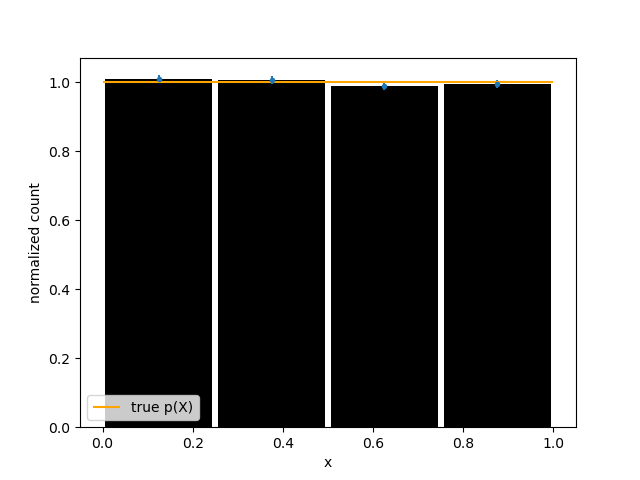
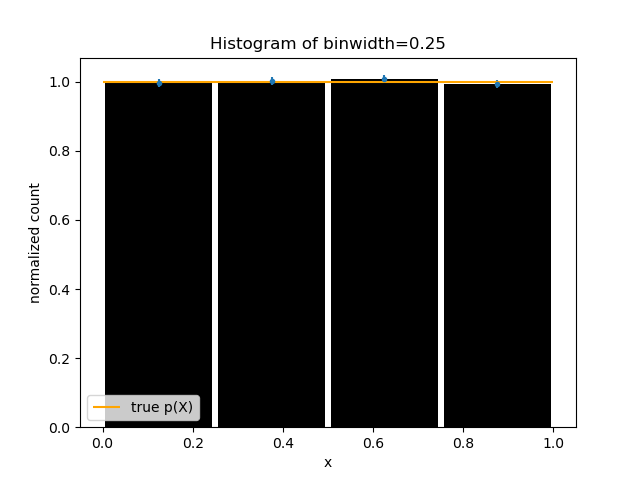
finished hw9

diff --git a/hw9/ps9_problem2.py b/hw9/ps9_problem2.py
@@ -1,0 +1,77 @@
+import numpy as np
+import matplotlib.pyplot as plt
+from histogram_class import histogram
+
+
+def random_walk(x_init=0.5, maxhop=0.5, nsteps=1000, accept_all=True):
+    ''' Does a random walk.
+
+    Parameters
+    ----------
+    x_init, initial state of walker
+    maxhop, maximum hop length
+    nsteps, number of steps to take
+    accept_all, whether or not to accept all steps
+
+    Returns
+    -------
+    xtrajectory, the tracjetory of the random walk
+    '''
+    x = x_init
+    maxhoplength = maxhop
+    xtrajectory = np.zeros(nsteps)
+
+    for step in range(nsteps):  # iterate through nsteps and allocate trajectory
+        xtrial = x + maxhoplength * (np.random.rand() - 0.5)
+        if accept_all: # accept all steps
+            x = xtrial
+            xtrajectory[step] = x
+        elif xtrial >= 0 and xtrial <= 1: # accept only if the trial step is within criterion.
+            x = xtrial 
+            xtrajectory[step] = x
+    return xtrajectory
+
+if __name__ == '__main__':
+    #i)
+    print('''i) See random_walk at line 6 for implementation''')
+
+    #ii)
+    steps = np.arange(0, 1000)
+    xtrajectory = random_walk(accept_all=False)
+    fig = plt.figure()
+    ax = fig.add_subplot(111, xlabel='step', ylabel='x trajectory', title='Random Monte Carlo Walk')
+    ax.plot(steps, xtrajectory)
+    plt.savefig('ps9_problem2ii.png')
+    plt.show()
+    plt.cla()
+
+    #ii)
+    long_trajectory = random_walk(nsteps=int(10e5), accept_all=True)
+    h = histogram([0, 1], 0.05)
+    for n in range(int(10e5)):
+        h.add_sample(long_trajectory[n])
+    h.normalize()
+    h.barplot()
+    plt.xlabel('bin')
+    plt.ylabel('count')
+    plt.title('Count of trajectory for nsteps=10e5 without rejecting trajectories.')
+    plt.savefig('ps9_problem2iii.png')
+    plt.show()
+    plt.cla()
+
+    #iii)
+    long_trajectory = random_walk(nsteps=int(10e5), accept_all=False)
+    h = histogram([0, 1], 0.05)
+    for n in range(int(10e5)):
+        h.add_sample(long_trajectory[n])
+    h.normalize()
+    h.barplot()
+    plt.xlabel('bin')
+    plt.ylabel('count')
+    plt.title('Count of trajectory for nsteps=10e5 when rejecting inappropriate trajectories.')
+    plt.savefig('ps9_problem2iv.png')
+    plt.show()
+    print('''iii) From the plot, we can see that the distribution when all moves are accepted tends towards a 
+    uniform distribution, whereas when only acceptable moves are recorded, the distribution clusters around the mean.
+    This means that if we neglect passage of time, all states are likely to be selected, and our Monte Carlo sampling 
+    would not mean much in a physical system.''')

diff --git a/hw9/ps9_problem1.py b/hw9/ps9_problem1.py
@@ -4,6 +4,7 @@ import matplotlib.pyplot as plt
 from histogram_class import histogram
 
 def compute_statistics(n, width=0.1):
+    '''Computes relevant statistics given n, number of samples, and width, binwidth.'''
     h = histogram(limits=[0, 1], binwidth=width)
     for n in range(int(n)):
         dat = np.random.rand()
@@ -16,6 +17,7 @@ def compute_statistics(n, width=0.1):
     return mean, mean_square, std_dev, error_of_mean
 
 def make_hist_err_plot(n, width=0.1):
+    '''Makes histogram error plot using computes error bars at each bin, given n, number of samples, width, binwidth.'''
     h = histogram(limits=[0, 1], binwidth=width)
     for n in range(int(n)):
         dat = np.random.rand()
@@ -25,14 +27,15 @@ def make_hist_err_plot(n, width=0.1):
     h.plot_error_bars()
     plt.hlines(1, h.limits[0], h.limits[1], color='orange', label='true p(X)')
     plt.legend()
+    plt.title('Histogram of binwidth={0}'.format(width))
 
 
 if __name__ == '__main__':
     #i)
-    print("""See histogram_class.py for question 1i) - iii).""")
+    print("""i-iii) See histogram_class.py for question 1i) - iii).""")
 
     #iv-v)
-    '''Nsamp = [100, 10e3, 10e4, 10e5, 10e6]
+    Nsamp = [100, 10e3, 10e4, 10e5, 10e6] # initialize relevant statistics
     means = []
     mean_squares = []
     std_devs = []
@@ -47,7 +50,7 @@ if __name__ == '__main__':
                          ,'error_of_mean': errors_of_mean})
     print("""iv-v) The error of mean gets smaller as the mean of the sample gets closer to the theoretical value.
     Shown in the table below:
-    {0}""".format(table))'''
+    {0}""".format(table))
 
     #vi - vii)
     print("""vi-vii) See histogram_class.py for method implemented.""")

diff --git a/hw9/histogram_class.py b/hw9/histogram_class.py
@@ -58,16 +58,19 @@ class histogram():
         return self.std_dev
 
     def compute_error_of_mean(self):
+        '''Computes my error of mean'''
         self.error_of_mean = self.std_dev / sqrt(self.N_samples)
         return self.error_of_mean
 
     def compute_histogram_error(self):
+        '''Computes my error at each bin of histogram'''
         histogram_err = 0 * self.histo
         for c, x in enumerate(self.histo):
             histogram_err[c] = sqrt(x*(1 - x * self.binwidth) / (self.N_samples * self.binwidth))
         return histogram_err
 
     def plot_error_bars(self):
+        '''Makes a plot using the 2*errors of each bin as error bars.'''
         y_err = 2 * self.compute_histogram_error()
         errorbar(self.vals, self.histo, y_err, fmt='.')
         xlabel('x')
